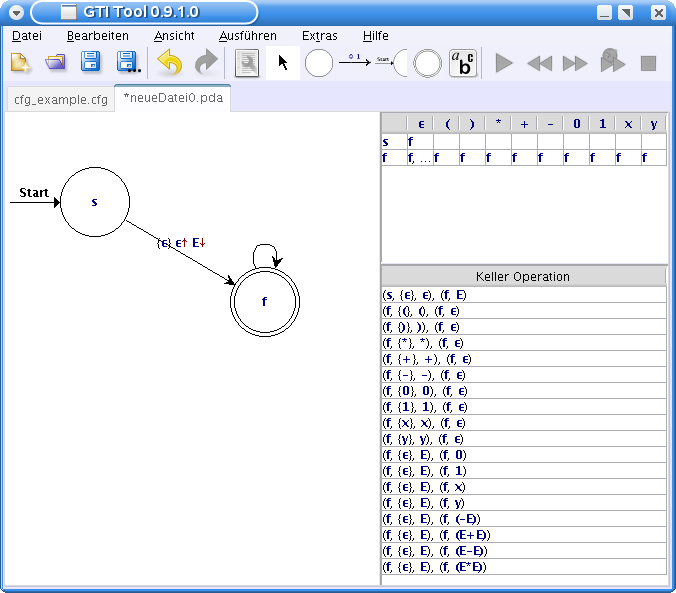
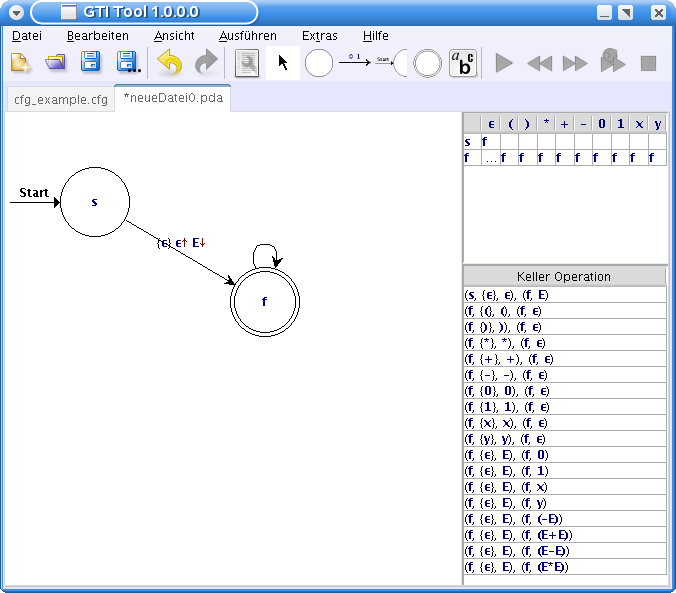
- Thesis: Write the first perspectives. - Thesis: Add pictures. - Thesis: Remove the no cite command. - Thesis: Correct the version number of the stack operation table image.
git-svn-id: https://vcs.informatik.uni-siegen.de/svn/gtitool/trunk@1266 d1fb0f2a-2248-4f96-a540-7c12a6a72a62

Changed region(s): [[0.5592, 0.1821, 0.9009, 0.9713], [0.8077, 0.1821, 0.963, 0.2732], [0.2175, 0.0, 0.2796, 0.0304]]

diff --git a/thesis/source/perspective.tex b/thesis/source/perspective.tex
@@ -12,17 +12,78 @@ In diesem Kapitel werden die Zukunftspersektiven für das \gtitool besprochen.
 Bei der Implementierung wurde besonderer Wert darauf gelegt, dass das \gtitool
 leicht zu erweitern sein muss. Der dadurch entstandene Aufwand konnte dadurch
 gerechtfertigt werden, dass Erweiterungen in der Zukunft leichter und somit
-schneller intergriert werden können.
+schneller integriert werden können.
 
 
 \section{Graphische Komponenten implementieren}\label{PerspectiveGraphics}
 
-TODOCF
+Wie in Abschnitt \ref{Graph} beschrieben verwenden wir zur graphischen
+Darstellung der Automaten die Bibliothek JGraph. Diese Bibliothek bietet einen
+sehr großen Funktionsumfang, der von uns nicht komplett ausgeschöpft werden
+musste. Eine mögliche Implementierung für die Zukunft wäre es, diese Bibliothek
+durch eine eigene Implementierung zu ersetzen, die dann nur den gewünschten
+Umfang bietet und somit leichter zu warten und zu erweitern ist.\vspace{10pt}
+
+Da eine solche Implementierung sehr viel Zeit in Anspruch nehmen würde, war es
+uns im Rahmen der Diplomarbeit nicht möglich, neben den umgesetzten Komponenten
+auch noch die graphischen Komponenten selbst zu implementieren. JGraph bot uns
+die Möglichkeit sehr schnell und einfach bereits brauchbare Ergebnisse zu
+erzielen. Es mussten einige in \ref{GraphJGraphAdaptation} beschriebene
+Anpassungen vorgenommen werden, damit das Ergebnis unseren Vorstellungen
+entsprach, aber diese waren im Gegensatz zu einer vollständigen Implementieren
+zeitlich nicht so komplex.\vspace{10pt}
+
+Zu einer möglichen Umsetzung ist zu sagen, dass sowohl Zustände wie auch
+Übergänge modiliert werden müssen. Was gerade bei der Verwendung von parallel
+Übergängen ein größeres Problem sein könnte, da dort die Übergänge nicht auf
+einer Linie verlaufen. Der größte Nutzer bei einer eigenständigen
+Implementierung wäre, das Änderungen leichter eingepflegt werden könnten, da
+dies bei der sehr komplexen Implementierung von JGraph meistens problematisch
+war.
 
 
 \section{Reguläre Ausdrücke}
 
-TODOCF
+Die wohl wichtigste und komplexeste Erweiterung die für die Zukunft geplant
+ist, ist die Unterstützung von regulären Ausdrücken. Der Benutzer soll somit in
+der Lage sein, einen regulären Ausruck wie
+(\Symbol{a}$\mid$\Symbol{b})*\Symbol{a}\Symbol{b}\Symbol{b} eingeben zu können.
+Anschließend sollen im Idealfall mehrere Möglichkeiten bestehen, mit diesem
+Ausdruck weiter zu arbeiten. Diese Möglichkeiten sollen nun kurz angesprochen
+werden.\vspace{10pt}
+
+Der eingegebene reguläre Ausdruck soll mit dem in \gticitepage{Compilers}{159ff}
+beschriebenen McNaughton-Yamada-Thompson Algorithmus in einen Automaten
+umgewandelt werden können. Diese Umwandlung sollte, wie die anderen
+Umwandlungen auch, schrittweise durchgeführt werden. Dadurch soll es dem
+Benutzer ermöglicht werden, den zur Umwandlung benutzten Algorithmus besser zu
+verstehen. Abbildung \ref{FigureThompson} zeigt das Ergebnis, das bei einer
+solchen Umwandlung entstehen würde.\vspace{10pt}
+
+\begin{figure}[h!]
+\begin{center}
+\includegraphics[width=12cm]{../images/thompson.png}
+\caption{McNaughton-Yamada-Thompson Algorithmus}
+\label{FigureThompson}
+\end{center}
+\end{figure}
+
+Eine weitere Verwendungsmöglichkeit eines regulären Ausdruck wäre das direkte
+Umwandeln in einen DEA. Dieser Algorithmus wird in
+\gticitepage{Compilers}{175ff} beschrieben und verwendet die Funktionen
+\textit{nullable}, \textit{firstpos}, \textit{lastpos} und \textit{followpos},
+um die Umwandlung durchzuführen. Bei der Umsetzung müsste das Berechnen dieser
+Funktionen in irgendeiner Weise dargestellt werden, idealerweise anhand des
+Syntaxbaumes des regulären Ausdrucks. Ein mögliches Ergebnis der direkten
+Umwandlung ist in Abbildung \ref{FigureRegExDFA} zu sehen.
+
+\begin{figure}[h!]
+\begin{center}
+\includegraphics[width=12cm]{../images/regex_dfa.png}
+\caption{Direkte Umwandlung in einen DEA}
+\label{FigureRegExDFA}
+\end{center}
+\end{figure}
 
 
 \section{\LaTeX-Export}

diff --git a/thesis/source/machine.tex b/thesis/source/machine.tex
@@ -15,7 +15,7 @@ Möglichkeiten, was mit einem Automaten geschehen kann, wenn dieser angelegt
 wurde.
 
 
-\section{Graphenansicht}
+\section{Graphenansicht}\label{Graph}
 
 In diesem Abschnitt wird die Graphendarstellung besprochen. Zu Beginn der
 Diplomarbeit wurde diskutiert, welche Möglichkeiten zur Darstellung eines
@@ -32,7 +32,7 @@ und wie JGraph angepasst werden musste, um den speziellen Ansprüchen unserer
 Umsetzung zu genügen.
 
 
-\subsection{Automatendarstellung mit JGraph}
+\subsection{Automatendarstellung mit JGraph}\label{GraphJGraph}
 
 Bei der Darstellung der Automaten haben wir uns sehr an dem aktuellen
 Vorlesungsskript orientiert. Wir wollten eine möglichst hohe Überdeckung
@@ -68,7 +68,7 @@ handelt. Bei den Übergängen konnte die Übergangsmenge als Beschriftung benutz
 werden, wie es bei der Vorlage im Skript auch der Fall ist.\vspace{10pt}
 
 
-\subsection{Anpassung von JGraph}
+\subsection{Anpassung von JGraph}\label{GraphJGraphAdaptation}
 
 Die Bibliothek JGraph bietet einen weit über unsere Anforderungen hinaus
 gehende Unterstützung von graphischen Komponenten. An einigen Stellen mussten

diff --git a/thesis/source/thesis.tex b/thesis/source/thesis.tex
@@ -83,29 +83,6 @@ Universität Siegen}
 
 \include{conclusion}
 
-%### is not parsed begin
-\nocite{Sieber}
-\nocite{Compilers}
-\nocite{Layout}
-\nocite{Regular}
-\nocite{Algorithmen}
-\nocite{TAOC}
-\nocite{TI}
-\nocite{TI2}
-\nocite{TI3}
-\nocite{TI4}
-\nocite{TI5}
-\nocite{TI6}
-\nocite{TI7}
-\nocite{TI8}
-\nocite{EITI}
-\nocite{EI}
-\nocite{java-cup}
-\nocite{jflex}
-\nocite{jgraph}
-\nocite{tinylaf}
-
-%### is not parsed end
 \bibliographystyle{alphadin}
 \bibliography{literature}
 
